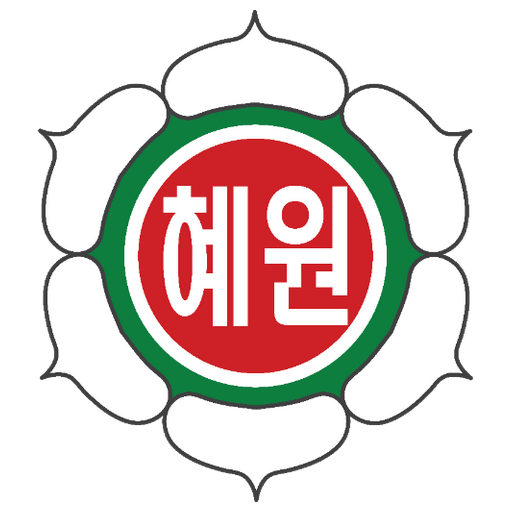
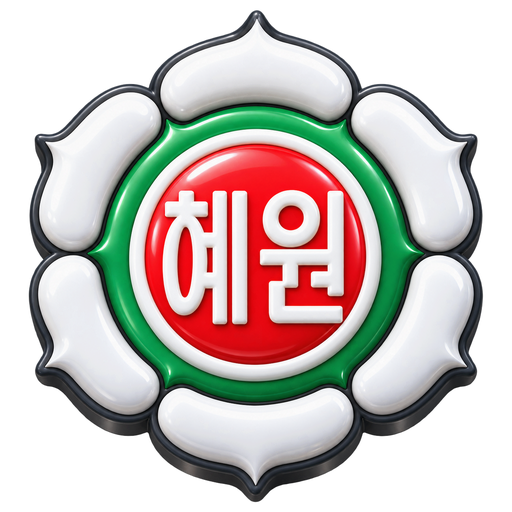
v1.2.0 — 로그인 로고·설치용 앱 아이콘을 혜원 꽃 3D 로고(투명 배경)로

diff --git a/index.html b/index.html
@@ -9,6 +9,7 @@
 <meta name="apple-mobile-web-app-title" content="혜원이지">
 <link rel="manifest" href="manifest.webmanifest">
 <link rel="apple-touch-icon" href="icon-512.png">
+<link rel="icon" type="image/png" href="icon-192.png">
 <title>혜원이지</title>
 <style>
 /* ── 색 ────────────────────────────────────────────────────
@@ -157,7 +158,7 @@ table.tt td.today{background:color-mix(in srgb,var(--accent) 9%,var(--card))}
 
 /* ── 첫 화면(암호) ───────────────────────────────────── */
 .gate{max-width:340px;margin:14vh auto 0;padding:0 var(--pad);text-align:center}
-.gate img{width:78px;height:78px;border-radius:20px;margin-bottom:14px}
+.gate img{width:96px;height:96px;object-fit:contain;margin-bottom:14px}
 .gate h1{font-size:23px;margin:0 0 6px;font-weight:800;letter-spacing:-.6px}
 .gate p{color:var(--dim);font-size:13.5px;margin:0 0 18px;line-height:1.6}
 .btn{
@@ -205,8 +206,8 @@ table.tt td.today{background:color-mix(in srgb,var(--accent) 9%,var(--card))}
 
 <script>
 /* ══════════════════════════════════════════════════════════
-   혜원이지 | @version 1.0.0
-   수정요약: v1.0.0 첫 판 — 타일 홈 + 시간표·급식·학사일정·주간업무·바로가기
+   혜원이지 | @version 1.2.0
+   수정요약: v1.2.0 로그인 화면 로고와 설치용 앱 아이콘을 «혜원» 꽃 3D 로고(투명 배경)로 · icon-192 추가. / v1.1.0 이름을 «혜원이지» 로. / v1.0.0 첫 판 — 타일 홈 + 시간표·급식·학사일정·주간업무·바로가기
 
    ★ 폰은 아무것도 긁지 않는다. «다리»(GAS)가 다 긁어서 정리해 준 것만 받는다.
      폰 브라우저는 남의 사이트를 직접 못 부르기 때문이다(같은 출처 규칙).

diff --git a/sw.js b/sw.js
@@ -1,4 +1,4 @@
-/* 혜원이지 서비스워커 | @version 1.0.0
+/* 혜원이지 서비스워커 | @version 1.2.0
    ★ 새 판이 나오면 «스스로» 바뀌어야 한다.
      기본 PWA 는 새 판을 받아 놓고도 «대기» 만 하다가, 앱을 완전히 닫아야 바뀐다.
      백그라운드에 둔 폰은 옛 판을 계속 쓴다 — 그게 아침걷기에서 겪은 일이다.
@@ -8,8 +8,8 @@
        ③ controllerchange   — 바뀌면 화면이 스스로 새로고침한다    (index.html)
        ④ visibilitychange   — 앞으로 나올 때마다 새 판을 «찾아본다» (index.html)
      ④ 가 없으면 ①②③ 이 다 있어도 소용없다. 찾아보질 않으니 발견을 못 한다. */
-var CACHE = 'phone-v1.1.0';
-var ASSETS = ['./', './index.html', './manifest.webmanifest', './icon-512.png'];
+var CACHE = 'phone-v1.2.0';
+var ASSETS = ['./', './index.html', './manifest.webmanifest', './icon-512.png', './icon-192.png'];
 
 self.addEventListener('install', function (e) {
   e.waitUntil(
